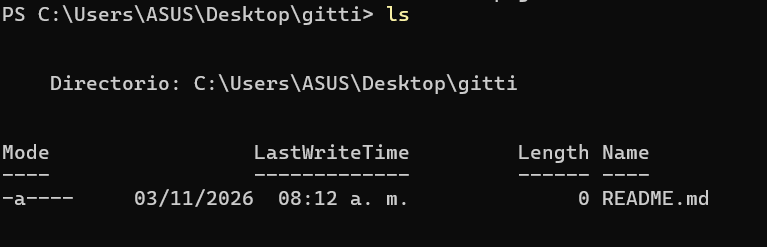
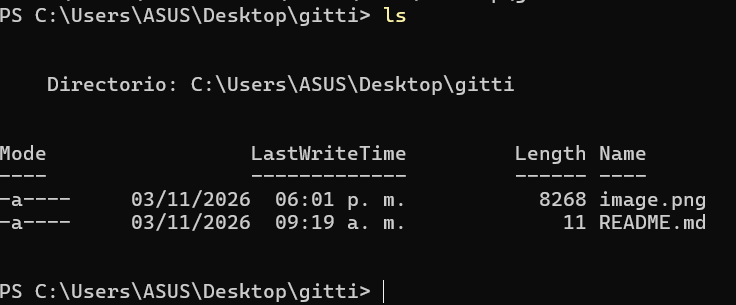
Primer repositorio de README

diff --git a/README.md b/README.md
@@ -1,1 +1,10 @@
-# curso-git
+#¿Que aprendi del curso?
+#¿Que comandos utilizaste?
+    cd para localizar la carpeta
+![alt text](image.png)
+    ls para navegar por la carpeta
+![alt text](image-1.png)
+    git para inicializar el repositorio
+![alt text](image-2.png)
+    status para revisar el estado de los archivos
+![alt text](image-3.png)
